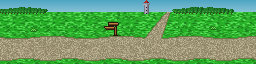
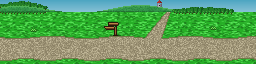
Desert inn: the wizard stops at the tent door in el_desierto1; la_pradera9 hill tower art

Changed region(s): [[0.375, 0.0, 0.6875, 0.2188], [0.0, 0.0, 0.25, 0.1875]]

diff --git a/src/ui/render.js b/src/ui/render.js
@@ -636,11 +636,12 @@ function dreamStillOff() {
 // npc is who is there (e.g. the shrine's mystic), shown with the place.
 // The doors of those places from the street (the author: he stops at the door before going
 // in): the street background that shows it and the door's centre in scene px. Doors already
-// in the art: the Town's open doorways, the City's saloon doors (beer poster) and the door by
+// in the art: the desert's tent, the Town's open doorways, the City's saloon doors (beer poster) and the door by
 // the dice sign.
 const STREET_DOORS = {
     el_poblado_taberna: ["el_Poblado4", 120], el_poblado_casadados: ["el_Poblado5", 119],
     la_ciudad_taberna: ["la_Ciudad4", 52], la_ciudad_casadados: ["la_Ciudad1", 149],
+    el_desierto_taberna: ["el_Desierto1", 180],     // the tent of el_desierto1: he stops at its door (the dark opening, x about 180) and goes in
 };
 const DOOR_PAUSE_MS = 400;
 

diff --git a/docs/art-notes.md b/docs/art-notes.md
@@ -21,11 +21,6 @@ Date: 2026-11-20
 Author's note: for @artist, el_Duenon7 (future scene, travel map): the sea part should be a waterfall, and the water must be rancid (sickly green-brown, foul). The idea of Duenon is that it is sinking into the underworld: a mega-corruption. In the future the author wants this shown on the whole map (Duenon slowly sinking, corrupted water falling away), so keep el_Duenon7 as the first piece of that look. Redo el_Duenon7 with this and drop it in the review as before.
 ```
 
-```
-Date: 2026-11-24
-Dev's request for @artist, from the author's 11-22 note: the desert inn is a tent (inn, tavern, gambling house). Draw a 256x64 desert scene with the tent's entrance seen from outside, el_desierto_tienda, next to the other Desierto scenes (tent door near the middle of the walk line, as la_Poblado4 has its tavern door). Dev will make the wizard walk to it and go in, instead of jumping from any desert scene into the inn.
-```
-
 ## Connector overlays (bridges, stairs, mines)
 
 - For artist (dev, 2026-11-20): the walk line is the same in every scene of the game, connector scenes included (the wizard is not lifted there; the idea of raising him 3-6 px was dropped). Anything he should walk behind in a connector scene (bridge handrails and posts, stair rails, mouth or mine timbers, pier posts, the ladder) is drawn as a front overlay instead: a 256x64 transparent PNG named overlay_<scene>.png (for example overlay_bridge_south_west.png), only the parts that cover him, everything else clear; it is drawn over the wizard and every sprite (like la_mina6 and la_mina7). Put them in the review drop; dev lists them in src/data/overlays.js. Check each connector scene first for what overlaps his row (feet rows are the walk line; dev-notes has the range question) and draw an overlay only where it is needed. Bridge halves (_west and _east) line up as neighbours, so their overlays must too.
@@ -61,11 +56,6 @@ Author's note: checking other details about etymos boss, i decided to keep the s
 - I know in the atlas there are two purpules and two green, for this purpos, only arcane and toxic or poison, ignore the plant green like nature.
 ```
 
-
-```
-Date: 2026-11-20 23:31
-Author's note: send to [[wa in la_Pradera9 the far away tower should be in a kinda hill, same the trees on the left, so in the horizon we can do a kinda elevation and only the base of the tower is visible
-```
 
 ```
 Date: 2026-11-21 19:45

diff --git a/docs/ARCHIVE.md b/docs/ARCHIVE.md
@@ -2195,3 +2195,19 @@ Author's note: regarding god touches, attacking directly bosses, also boost beli
 (travel console note, done) - edges should have outline, see green lines in a green praire is dificult
 
 (travel console note, done) - be sure to have values of the lenght of the edges of the graph, we need to convert them in sort of unity, for example for xx px we need 2 or 3 dynamic scenes
+
+```
+Date: 2026-11-22 09:27
+Author's note: [waits for art: el_desierto_tienda asked from the artist in docs/art-notes.md, 2026-11-24] important, in the desert make the way wizard enter to the inn is first showing the tent, now he just move from any scene in the desert to the actual inn
+```
+
+```
+Date: 2026-11-24
+Dev's request for @artist, from the author's 11-22 note: the desert inn is a tent (inn, tavern, gambling house). Draw a 256x64 desert scene with the tent's entrance seen from outside, el_desierto_tienda, next to the other Desierto scenes (tent door near the middle of the walk line, as la_Poblado4 has its tavern door). Dev will make the wizard walk to it and go in, instead of jumping from any desert scene into the inn.
+```
+
+```
+Date: 2026-11-20 23:31
+Author's note: send to [[wa in la_Pradera9 the far away tower should be in a kinda hill, same the trees on the left, so in the horizon we can do a kinda elevation and only the base of the tower is visible
+```
+(done: la_pradera9 option B copied in; desert inn now stops at the tent of el_desierto1)

diff --git a/CHANGELOG.md b/CHANGELOG.md
@@ -1,6 +1,8 @@
 # Changelog
 
 ## Unreleased
+- Desert inn: when the wizard goes to rest, he now walks to the tent in the first desert scene, stops at its door and goes in, instead of jumping into the inn from any desert scene.
+- La_Pradera9: the far tower now stands on a hill, with the trees on the left on their own hill.
 - A direct hit of the god on a boss now also raises the wizard's belief (more than a plain touch), and a healing touch costs half the faith of an attack of the same size.
 - Travel dev console: the buttons moved under the map, the panel and the map are wider, and a new Optimal path button draws the cheapest path between the source and one target, with its cost, stops and how many dynamic scenes each leg needs (the longer the leg, the more; one scene per 40 cost, at least one: a first guess). Hovering a direct link shows its scene count too.
 - La_Mina2: the rail is now a short track that starts past the doorway and ends at a buffer stop (it used to run across the whole scene).

diff --git a/ideas.md b/ideas.md
@@ -202,3 +202,4 @@ Newest first; keep the last three, cut older ones to the archive.
 - 2026-11-24 (dev): la_mina2 option C copied in; rail note archived.
 - 2026-11-24 (dev): boss hits raise belief (config.belief.weights.bossHit 1.5), heal touch costs x0.5 (config.belief.healCostFactor), travel console layout + Optimal path done; all untested in a browser, numbers are first guesses. Left in the travel note: source/target scene viewers, edge length as dynamic scenes.
 - 2026-11-24 (dev): dynamic scene count per edge (travelGraph.dynamicScenes, config.travel.pxPerScene 40) shown in the travel console; the rate is a guess to tune. Not used by the game yet.
+- 2026-11-24 (dev): desert tent entrance wired (STREET_DOORS el_desierto_taberna -> el_Desierto1, door x 180 read off the art by eye; check it); la_pradera9 option B copied in. Untested in a browser. Leaving the desert inn still has no inside door x (DOORS), so he leaves by the plain walk.

diff --git a/docs/dev-notes.md b/docs/dev-notes.md
@@ -156,11 +156,6 @@ Author's note: regarding the dice house. the current version shows the dice as d
 ```
 
 ```
-Date: 2026-11-22 09:27
-Author's note: [waits for art: el_desierto_tienda asked from the artist in docs/art-notes.md, 2026-11-24] important, in the desert make the way wizard enter to the inn is first showing the tent, now he just move from any scene in the desert to the actual inn
-```
-
-```
 Date: 2026-11-22 09:29
 Author's note: i am thinking that reviving the wizard by touching him is actually penalizing him by removing him from his track (cabin will leave the wizard in many places. we need to be sure to dev soemthing that mke him to be relased close on in the region he was when hi is doing a quest
 ```
